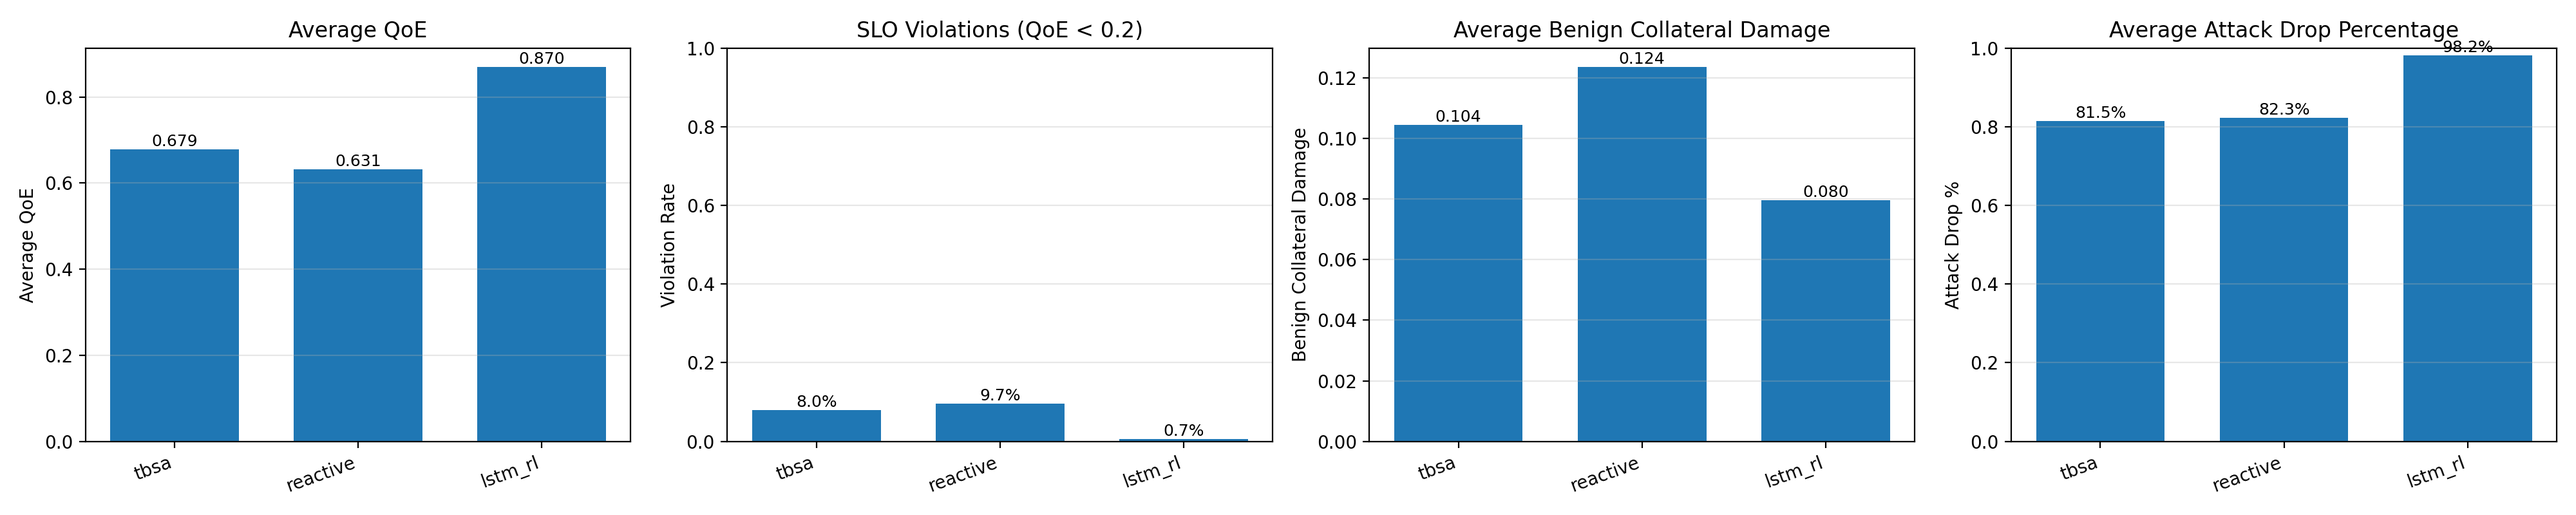
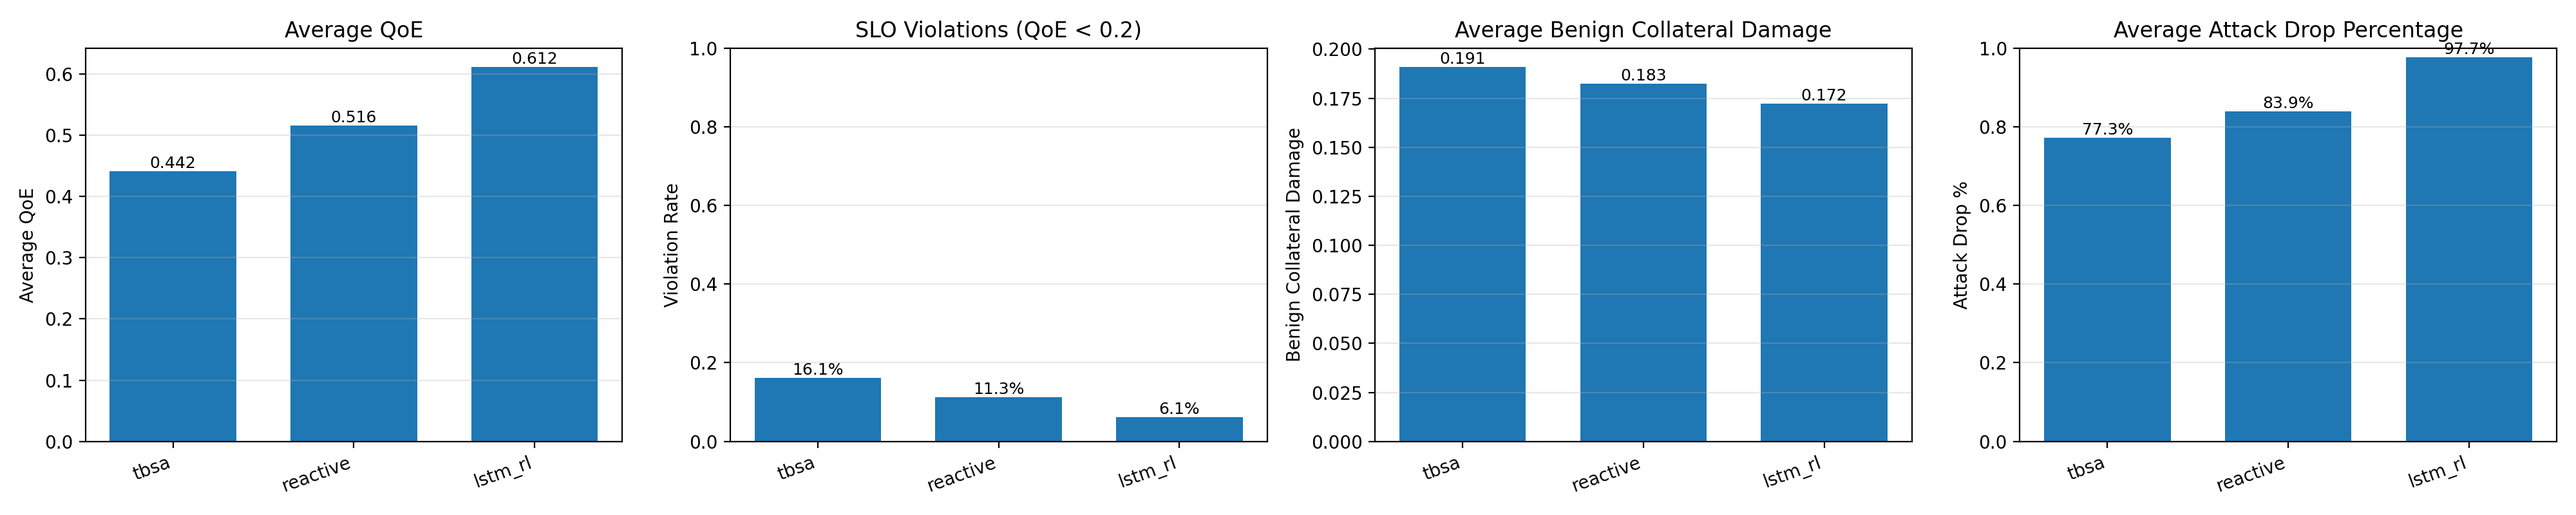
lstm rl single edge convergence

diff --git a/simulation/eval_baselines.py b/simulation/eval_baselines.py
@@ -180,18 +180,25 @@ def run_episode(
                 ids_cpu_max,
             ).astype(np.float32)
 
-        delta_eff       = float(ids_cpu[0] - prev_ids_cpu[0])
-        scaling_pending = float(np.clip(scaling_pending + delta_eff, -SCALING_K, SCALING_K))
-        overhead_rate   = _overhead_rate(scaling_pending, scaling_time_steps)
+        delta_eff = float(ids_cpu[0] - prev_ids_cpu[0])
+        if delta_eff > 0.0:
+            scaling_pending = min(scaling_pending + delta_eff, SCALING_K)
+        else:
+            scaling_pending = max(0.0, scaling_pending + delta_eff)
+        overhead_rate = _overhead_rate(scaling_pending, scaling_time_steps)
+
+        ids_cpu_eff = ids_cpu.copy()
+        if scaling_pending > 1e-9:
+            ids_cpu_eff[0] = ids_cpu[0] - scaling_pending
 
         for _ in range(decision_interval):
-            if abs(scaling_pending) > 1e-9:
-                consumed        = float(np.sign(scaling_pending)) * min(abs(scaling_pending), overhead_rate)
+            if scaling_pending > 1e-9:
+                consumed         = min(scaling_pending, overhead_rate)
                 scaling_pending -= consumed
-                step_overhead   = consumed
-            else:
-                step_overhead = 0.0
-            env.step(ids_cpu, step_overhead)
+                if scaling_pending < 1e-9:
+                    scaling_pending = 0.0
+                    ids_cpu_eff[0]  = ids_cpu[0]
+            env.step(ids_cpu_eff, 0.0)
             if env.t >= env.t_max:
                 break
 
@@ -273,7 +280,7 @@ def main():
                     help="Methods to evaluate. Defaults: random constant_0.5 constant_4.0 reactive")
     ap.add_argument("--tbsa_table",        default="tbsa_table.npz",
                     help="TBSA lookup-table path (needed when 'tbsa' is in --methods)")
-    ap.add_argument("--ckpt",              default="checkpoints/tdsc/ckpt_iter_000150.pt",
+    ap.add_argument("--ckpt",              default="checkpoints/tdsc_so_rew/ckpt_iter_000150.pt",
                     help="Checkpoint path (needed when 'lstm_rl' is in --methods)")
     ap.add_argument("--device",            default="cpu")
     args = ap.parse_args()

diff --git a/simulation/run_baseline.py b/simulation/run_baseline.py
@@ -221,20 +221,30 @@ def run_episode(
                 ids_cpu_max,
             ).astype(np.float32)
 
-        delta_eff       = float(ids_cpu[0] - prev_ids_cpu[0])
-        scaling_pending = float(np.clip(scaling_pending + delta_eff, -SCALING_K, SCALING_K))
-        overhead_rate   = _overhead_rate(scaling_pending, scaling_time_steps)
+        delta_eff = float(ids_cpu[0] - prev_ids_cpu[0])
+        if delta_eff > 0.0:
+            scaling_pending = min(scaling_pending + delta_eff, SCALING_K)
+        else:
+            scaling_pending = max(0.0, scaling_pending + delta_eff)
+        overhead_rate = _overhead_rate(scaling_pending, scaling_time_steps)
+
+        # ids_cpu_eff is what the IDS actually receives:
+        #   scale-up pending → old value until pending drains to zero
+        #   scale-down / hold → new value immediately
+        ids_cpu_eff = ids_cpu.copy()
+        if scaling_pending > 1e-9:
+            ids_cpu_eff[0] = ids_cpu[0] - scaling_pending
 
         # Simulate decision_interval ticks
         for _ in range(decision_interval):
-            if abs(scaling_pending) > 1e-9:
-                consumed        = float(np.sign(scaling_pending)) * min(abs(scaling_pending), overhead_rate)
+            if scaling_pending > 1e-9:
+                consumed         = min(scaling_pending, overhead_rate)
                 scaling_pending -= consumed
-                step_overhead   = consumed
-            else:
-                step_overhead = 0.0
+                if scaling_pending < 1e-9:
+                    scaling_pending  = 0.0
+                    ids_cpu_eff[0]   = ids_cpu[0]   # scale-up complete
 
-            env.step(ids_cpu, step_overhead)
+            env.step(ids_cpu_eff, 0.0)
 
             r = _reward_components(env, n_edges, reward_alpha, reward_beta, reward_gamma, reward_q_th)
             total_reward      += r["reward"]

diff --git a/simulation/environment.py b/simulation/environment.py
@@ -484,9 +484,9 @@ class TorchRLEnvWrapper(EnvBase):
 
         # Reward weights — read from config so they're tracked and reproducible
         _reward_cfg = _cfg["globals"].get("reward", {})
-        self.reward_alpha = 1.0 / float(_reward_cfg.get("alpha_inv", 0.10))
-        self.reward_beta  = 1.0 / float(_reward_cfg.get("beta_inv",  0.20))
-        self.reward_gamma = 1.0 / float(_reward_cfg.get("gamma_inv", 0.12))
+        self.reward_alpha = float(_reward_cfg.get("alpha_inv", 0.10))
+        self.reward_beta  = float(_reward_cfg.get("beta_inv",  0.20))
+        self.reward_gamma = float(_reward_cfg.get("gamma_inv", 0.12))
         self.reward_q_th  = float(_reward_cfg.get("q_th", 0.20))
         self.scaling_quanta: List[float] = [0.5, 1.0, 1.5, 2.0]
         self.scaling_K: float = 2.0          # max accumulated pending (CPU units)

diff --git a/simulation/old_policy.py b/simulation/old_policy.py
@@ -745,7 +745,8 @@ def main():
         )
 
     # methods = ["random", "constant_0.5", "constant_1.5", "reactive", "tbsa"] + list(rl_policies.keys())
-    methods = ["constant_0.0", "constant_0.5", "constant_1.5"] + list(rl_policies.keys())
+    # methods = ["constant_0.0", "constant_0.5", "constant_1.5"] + list(rl_policies.keys())
+    methods = ["constant_1.5", "reactive", "tbsa"] + list(rl_policies.keys())
 
     # methods = ["reactive"] + list(rl_policies.keys())
 
